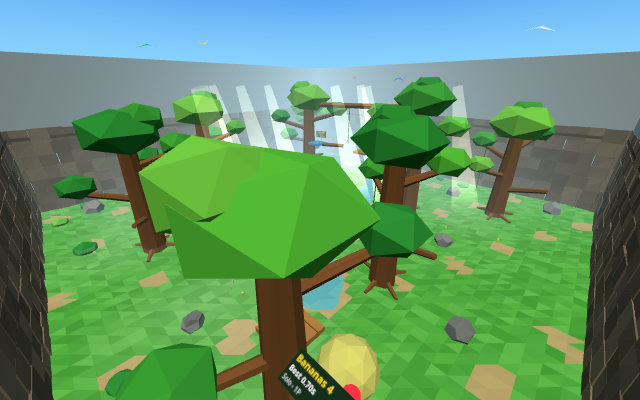
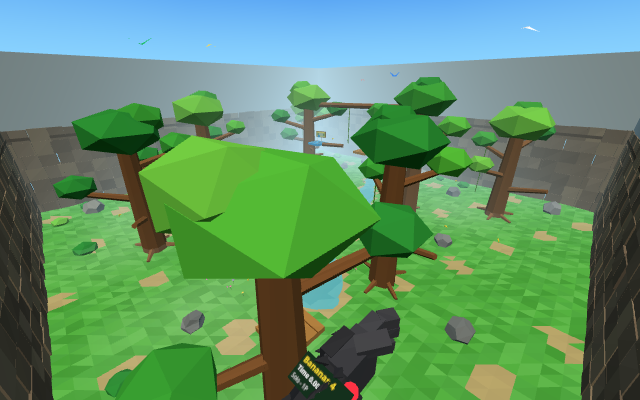
Remove sun shafts; Gorilla Tag-style gorillas (dark fur, grey face/chest plates, chest name tag) and furry 3-finger + thumb first-person hands

diff --git a/main.js b/main.js
@@ -301,7 +301,7 @@ for (const [pos, yaw] of [[new V3(-6.3, 1.7, -4.6), 0.55], [new V3(-6.6, 8.1, -7
 }
 const worldMesh = new THREE.Mesh(world.build(), worldMat); scene.add(worldMesh);
 
-// ---------- sky, sun, moon, sun shafts, mist, fireflies ----------
+// ---------- sky, sun, moon, mist, fireflies ----------
 const skyMat = new THREE.ShaderMaterial({
   side: THREE.BackSide, depthWrite: false, fog: false,
   uniforms: { top: { value: new C3() }, hor: { value: new C3() } },
@@ -311,21 +311,6 @@ const skyMat = new THREE.ShaderMaterial({
 const sky = new THREE.Mesh(new THREE.SphereGeometry(300, 16, 10), skyMat); sky.renderOrder = -1; scene.add(sky);
 const sun = new THREE.Mesh(new THREE.IcosahedronGeometry(9, 1), new THREE.MeshBasicMaterial({ color: 0xfff3b0, fog: false })); scene.add(sun);
 const moon = new THREE.Mesh(new THREE.IcosahedronGeometry(6, 1), new THREE.MeshBasicMaterial({ color: 0xe6ecff, fog: false })); scene.add(moon);
-const rayMat = new THREE.ShaderMaterial({
-  transparent: true, depthWrite: false, blending: THREE.AdditiveBlending, side: THREE.DoubleSide,
-  uniforms: { op: { value: 0.3 }, col: { value: new C3(1, 0.93, 0.7) } },
-  vertexShader: 'varying float v;void main(){v=uv.y;gl_Position=projectionMatrix*modelViewMatrix*vec4(position,1.);}',
-  fragmentShader: 'varying float v;uniform float op;uniform vec3 col;void main(){gl_FragColor=vec4(col*op*smoothstep(0.,.3,v)*(1.-v*.55),1.);}',
-});
-{
-  const pos = [], uv = [], cone = new THREE.CylinderGeometry(0.5, 1.7, 15, 10, 1, true).toNonIndexed();
-  for (const [x, z, s] of [[2, -3, 1], [-4, 5, 0.9], [4, 12.5, 1.1], [-13.5, -5, 1], [12, -11, 0.9], [-2, -13, 1.1], [9, 1, 0.8], [-17, 2, 1]]) {
-    const g = cone.clone(); g.applyMatrix4(M4(new V3(x, 7.5, z), new Q().setFromEuler(new THREE.Euler(0.12, 0, 0.22)), new V3(s, 1, s)));
-    pos.push(...g.attributes.position.array); uv.push(...g.attributes.uv.array);
-  }
-  const g = new THREE.BufferGeometry(); g.setAttribute('position', new THREE.Float32BufferAttribute(pos, 3)); g.setAttribute('uv', new THREE.Float32BufferAttribute(uv, 2));
-  scene.add(new THREE.Mesh(g, rayMat));
-}
 const mistTex = (() => { const c = document.createElement('canvas'); c.width = c.height = 64; const x = c.getContext('2d'); const gr = x.createRadialGradient(32, 32, 0, 32, 32, 32); gr.addColorStop(0, 'rgba(255,255,255,1)'); gr.addColorStop(1, 'rgba(255,255,255,0)'); x.fillStyle = gr; x.fillRect(0, 0, 64, 64); return new THREE.CanvasTexture(c); })();
 const mistMat = new THREE.MeshBasicMaterial({ map: mistTex, transparent: true, opacity: 0.22, depthWrite: false, color: 0xffffff });
 const mist = new THREE.Group(); scene.add(mist);
@@ -399,48 +384,150 @@ const BANANAS = [];
 const bananaMesh = new THREE.InstancedMesh(bananaGeo, new THREE.MeshLambertMaterial({ vertexColors: true, emissive: 0x403000, flatShading: true }), BANANAS.length);
 bananaMesh.frustumCulled = false; scene.add(bananaMesh);
 
-// ---------- gorilla avatars ----------
+// ---------- gorilla avatars (classic Gorilla Tag look: dark fur, light grey face + chest plates) ----------
+// Built with its own deterministic noise (not the seeded world rnd) so the world layout is untouched.
+// Per-vertex 'fur' flag: fur takes the player's colour (or lava), face/chest plates stay light grey.
+class GorillaBuilder {
+  constructor() { this.p = []; this.n = []; this.c = []; this.f = []; this.h = 12345; }
+  noise() { this.h = (this.h * 16807) % 2147483647; return this.h / 2147483647; }
+  add(geo, color, m, fur = 1, vary = 0.08) {
+    const g = geo.index ? geo.toNonIndexed() : geo.clone(); geo.dispose();
+    if (m) g.applyMatrix4(m);
+    g.computeVertexNormals();
+    const p = g.attributes.position.array, n = g.attributes.normal.array, base = new C3(color);
+    for (let i = 0; i < p.length; i += 9) { const k = 1 + (this.noise() - 0.5) * 2 * vary; for (let j = 0; j < 3; j++) { this.c.push(base.r * k, base.g * k, base.b * k); this.f.push(fur); } }
+    for (const v of p) this.p.push(v); for (const v of n) this.n.push(v);
+    g.dispose(); return this;
+  }
+  build() {
+    const g = new THREE.BufferGeometry();
+    g.setAttribute('position', new THREE.Float32BufferAttribute(this.p, 3));
+    g.setAttribute('normal', new THREE.Float32BufferAttribute(this.n, 3));
+    g.setAttribute('color', new THREE.Float32BufferAttribute(this.c, 3));
+    g.setAttribute('fur', new THREE.Float32BufferAttribute(this.f, 1));
+    g.computeBoundingSphere(); return g;
+  }
+}
+const EUL = (x, y, z) => new Q().setFromEuler(new THREE.Euler(x, y, z));
+const FUR = '#ffffff', FUR_DARK = '#9a9a9a', PLATE = '#b4b4b4', RING = '#858585', EYE = '#101010', MUZZLE = '#c4c4c4', HOLE = '#2a2a2a';
+// a tuft of fur: thin open 4-sided spike from 'at' along 'dir'
+function tuft(gb, at, dir, len = 0.05, r = 0.016, col = FUR) {
+  const d = dir.clone().normalize();
+  gb.add(new THREE.ConeGeometry(r, len, 4, 1, true), col, M4(at.clone().addScaledVector(d, len / 2), qFromTo(UP, d)), 1, 0.15);
+}
+function mirrorX(geo) { // right-hand copy of a left-hand model (flip x, keep triangle winding front-facing)
+  const g = geo.clone();
+  for (const name of ['position', 'normal', 'color', 'fur']) {
+    const a = g.attributes[name], s = a.itemSize, arr = a.array;
+    for (let i = 0; i < arr.length; i += 3 * s) for (let k = 0; k < s; k++) { const t = arr[i + s + k]; arr[i + s + k] = arr[i + 2 * s + k]; arr[i + 2 * s + k] = t; }
+  }
+  const p = g.attributes.position.array, n = g.attributes.normal.array;
+  for (let i = 0; i < p.length; i += 3) { p[i] = -p[i]; n[i] = -n[i]; }
+  g.computeBoundingSphere(); return g;
+}
+// Hand in WebXR grip space (left hand): palm faces +x, fingers wrap forward (-z), thumb on top, forearm back (+z).
+function buildHand() {
+  const gb = new GorillaBuilder(); gb.h = 777; const SKIN = new C3(2.1, 2.1, 2.1), SKIN2 = new C3(1.7, 1.7, 1.7); // palm/fingers a shade lighter than the fur
+  gb.add(new THREE.BoxGeometry(0.06, 0.11, 0.105), SKIN2, M4(new V3(0.002, 0, -0.01)), 1, 0.06);           // palm
+  gb.add(new THREE.BoxGeometry(0.03, 0.115, 0.075), FUR, M4(new V3(-0.028, 0, 0.0)), 1, 0.06);              // back of hand
+  for (const [y, len] of [[0.037, 0.06], [0, 0.068], [-0.037, 0.056]]) {                                  // 3 chunky fingers
+    gb.add(new THREE.BoxGeometry(0.038, 0.032, len), SKIN, M4(new V3(-0.006, y, -0.06 - len / 2)), 1, 0.08);
+    gb.add(new THREE.BoxGeometry(0.034, 0.03, 0.045), SKIN2, M4(new V3(0.008, y, -0.075 - len), EUL(0, -0.55, 0)), 1, 0.08);
+  }
+  gb.add(new THREE.BoxGeometry(0.034, 0.034, 0.07), SKIN, M4(new V3(0.03, 0.062, -0.04), EUL(0.3, -0.7, 0)), 1, 0.06); // thumb
+  const fa = new V3(0, -0.22, 1).normalize();
+  gb.add(new THREE.CylinderGeometry(0.05, 0.06, 0.17, 7, 1, true), FUR, M4(fa.clone().multiplyScalar(0.11), qFromTo(UP, fa)), 1, 0.1); // forearm
+  for (let i = 0; i < 16; i++) {                                                                         // short fur tufts, swept back along the forearm
+    const t = 0.05 + 0.15 * gb.noise(), ang = Math.PI * (0.45 + 1.1 * gb.noise());
+    const radial = new V3(Math.cos(ang), Math.sin(ang) * 0.9 - 0.15, 0).normalize();
+    const at = fa.clone().multiplyScalar(t).addScaledVector(radial, 0.048);
+    tuft(gb, at, radial.clone().multiplyScalar(0.55).addScaledVector(fa, 1), 0.03 + 0.015 * gb.noise(), 0.011);
+  }
+  for (const [y, z] of [[0.035, 0.02], [-0.03, 0.025], [0.0, -0.02], [0.04, -0.03], [-0.04, -0.025]]) tuft(gb, new V3(-0.042, y, z), new V3(-0.6, 0.15, 1), 0.026, 0.01);
+  for (let i = 0; i < 7; i++) { const ang = i / 7 * Math.PI * 2 + 0.3, r = new V3(Math.cos(ang) * 0.75, Math.sin(ang), 0); tuft(gb, new V3(0, 0, 0.045).addScaledVector(r, 0.055), r.clone().multiplyScalar(0.8).add(new V3(0, 0, 0.9)), 0.032, 0.012); } // shaggy wrist cuff
+  for (const z of [-0.035, 0.0, 0.03]) tuft(gb, new V3(-0.01, -0.058, z), new V3(-0.2, -1, 0.8), 0.028, 0.011); // hair along the outer edge
+  return gb.build();
+}
 const gorillaGeo = (() => {
-  const body = new Merger(); body.add(new THREE.DodecahedronGeometry(0.36, 0), '#ffffff', M4(null, null, new V3(1.05, 1.15, 0.85)), 0.05);
-  body.add(new THREE.DodecahedronGeometry(0.2, 0), '#b8a998', M4(new V3(0, -0.02, -0.24), null, new V3(1, 1.2, 0.5)), 0.03);
-  const head = new Merger(); head.add(new THREE.BoxGeometry(0.3, 0.27, 0.3), '#ffffff', null, 0.06);
-  head.add(new THREE.BoxGeometry(0.23, 0.17, 0.06), '#5a5048', M4(new V3(0, -0.02, -0.15)), 0.02);
-  for (const sx of [-1, 1]) { head.add(new THREE.BoxGeometry(0.05, 0.05, 0.02), '#ffffff', M4(new V3(0.055 * sx, 0.02, -0.185)), 0); head.add(new THREE.BoxGeometry(0.025, 0.025, 0.02), '#111111', M4(new V3(0.055 * sx, 0.02, -0.195)), 0); }
-  head.add(new THREE.BoxGeometry(0.34, 0.06, 0.2), '#ffffff', M4(new V3(0, 0.12, 0.02)), 0.05);
-  const hand = new Merger(); hand.add(new THREE.IcosahedronGeometry(HR, 1), '#ffffff', null, 0.05);
-  return { body: body.build(), head: head.build(), hand: hand.build(), arm: (() => { const g = new THREE.CylinderGeometry(0.05, 0.06, 1, 6).translate(0, 0.5, 0).rotateX(Math.PI / 2); g.setAttribute('color', new THREE.Float32BufferAttribute(new Array(g.attributes.position.count * 3).fill(1), 3)); return g; })() }; // arms need a (white) colour attribute or vertexColors renders them black
+  // torso: short and bulky, no legs; light grey chest plate
+  const body = new GorillaBuilder(); body.h = 31;
+  body.add(new THREE.DodecahedronGeometry(0.36, 0), FUR, M4(null, null, new V3(1.15, 1.0, 0.9)), 1, 0.06);
+  for (const sx of [-1, 1]) body.add(new THREE.DodecahedronGeometry(0.16, 0), FUR, M4(new V3(0.29 * sx, 0.17, 0.02)), 1, 0.06);
+  body.add(new THREE.IcosahedronGeometry(0.25, 1), PLATE, M4(new V3(0, 0.02, -0.255), null, new V3(1.0, 1.05, 0.38)), 0, 0.03);
+  for (let i = 0; i < 9; i++) { const a = -0.9 + 1.8 * i / 8; tuft(body, new V3(Math.sin(a) * 0.3, 0.26 - Math.abs(a) * 0.08, 0.1 + Math.cos(a) * 0.12), new V3(Math.sin(a), 0.6, 0.8), 0.06, 0.022); }
+  // head: big rounded fur dome, darker brow, light grey face plate, round eye rings, big dark eyes, muzzle with nostrils, small mouth
+  const head = new GorillaBuilder(); head.h = 57;
+  head.add(new THREE.IcosahedronGeometry(0.175, 1), FUR, M4(new V3(0, 0.025, 0.02), null, new V3(1.05, 0.98, 1.0)), 1, 0.07);
+  head.add(new THREE.DodecahedronGeometry(0.09, 0), FUR, M4(new V3(0, 0.11, 0.0), null, new V3(1.5, 0.8, 1.4)), 1, 0.07); // crown
+  head.add(new THREE.BoxGeometry(0.29, 0.05, 0.08), FUR_DARK, M4(new V3(0, 0.085, -0.125), EUL(0.2, 0, 0)), 1, 0.05);      // brow ridge
+  head.add(new THREE.IcosahedronGeometry(0.12, 1), PLATE, M4(new V3(0, -0.02, -0.115), null, new V3(1.3, 1.08, 0.52)), 0, 0.03); // face plate
+  for (const sx of [-1, 1]) {
+    head.add(new THREE.CylinderGeometry(0.047, 0.047, 0.02, 10), RING, M4(new V3(0.055 * sx, 0.02, -0.165), EUL(Math.PI / 2, 0, 0)), 0, 0.02);
+    head.add(new THREE.CylinderGeometry(0.031, 0.031, 0.02, 10), EYE, M4(new V3(0.055 * sx, 0.02, -0.174), EUL(Math.PI / 2, 0, 0)), 0, 0);
+    head.add(new THREE.BoxGeometry(0.012, 0.012, 0.01), '#ffffff', M4(new V3(0.055 * sx + 0.01, 0.032, -0.185)), 0, 0); // eye glint
+  }
+  head.add(new THREE.IcosahedronGeometry(0.068, 1), MUZZLE, M4(new V3(0, -0.07, -0.165), null, new V3(1.3, 0.82, 0.75)), 0, 0.03); // muzzle
+  for (const sx of [-1, 1]) head.add(new THREE.BoxGeometry(0.016, 0.012, 0.012), HOLE, M4(new V3(0.018 * sx, -0.052, -0.215)), 0, 0); // nostrils
+  head.add(new THREE.BoxGeometry(0.05, 0.008, 0.012), HOLE, M4(new V3(0, -0.098, -0.205)), 0, 0); // mouth
+  // arms: long and chunky, with tufts (unit length along +z, scaled to reach the hand)
+  const arm = new GorillaBuilder(); arm.h = 99;
+  arm.add(new THREE.CylinderGeometry(0.068, 0.09, 1, 7, 1, true).translate(0, 0.5, 0).rotateX(Math.PI / 2), FUR, null, 1, 0.08);
+  for (let i = 0; i < 10; i++) { const a = i * 2.4, z = 0.12 + 0.07 * i, r = new V3(Math.cos(a), Math.sin(a), 0); tuft(arm, r.clone().multiplyScalar(0.07).setZ(z), r.clone().multiplyScalar(0.6).setZ(1), 0.045, 0.016); }
+  const handL = buildHand().scale(1.2, 1.2, 1.2); // big gorilla hands
+  return { body: body.build(), head: head.build().scale(1.22, 1.22, 1.22), arm: arm.build(), hand: handL, handL, handR: mirrorX(handL) };
 })();
+function gorillaMat(color) {
+  const m = new THREE.MeshLambertMaterial({ vertexColors: true, flatShading: true, color });
+  m.onBeforeCompile = s => {
+    s.vertexShader = s.vertexShader.replace('#include <common>', '#include <common>\nattribute float fur;\nvarying float vFur;').replace('#include <begin_vertex>', '#include <begin_vertex>\nvFur = fur;');
+    s.fragmentShader = s.fragmentShader.replace('#include <common>', '#include <common>\nvarying float vFur;').replace('#include <color_fragment>', 'diffuseColor.rgb = vColor.rgb * mix(vec3(1.0), diffuse, vFur);');
+  };
+  m.customProgramCacheKey = () => 'gorilla-fur';
+  return m;
+}
 const LAVA = new C3(0xff4a12);
+// name tag: white pixel-style text on the chest (crisp nearest-filtered low-res canvas, hard alpha)
 function nameSprite(text) {
-  const c = document.createElement('canvas'); c.width = 256; c.height = 64; const tex = new THREE.CanvasTexture(c); tex.colorSpace = THREE.SRGBColorSpace;
-  const s = new THREE.Sprite(new THREE.SpriteMaterial({ map: tex, transparent: true, depthWrite: false })); s.scale.set(0.8, 0.2, 1);
-  s.userData.set = (t, it) => { const x = c.getContext('2d'); x.clearRect(0, 0, 256, 64); x.fillStyle = it ? 'rgba(160,30,0,.75)' : 'rgba(0,0,0,.55)'; x.beginPath(); if (x.roundRect) x.roundRect(4, 6, 248, 52, 20); else x.rect(4, 6, 248, 52); x.fill(); x.fillStyle = '#fff'; x.font = 'bold 34px system-ui,sans-serif'; x.textAlign = 'center'; x.textBaseline = 'middle'; x.fillText(t, 128, 33); tex.needsUpdate = true; s.userData.text = t; };
+  const W = 128, H = 20, c = document.createElement('canvas'); c.width = W; c.height = H; const tex = new THREE.CanvasTexture(c); tex.colorSpace = THREE.SRGBColorSpace;
+  tex.magFilter = THREE.NearestFilter; tex.minFilter = THREE.NearestFilter; tex.generateMipmaps = false;
+  const s = new THREE.Mesh(new THREE.PlaneGeometry(0.34, 0.053), new THREE.MeshBasicMaterial({ map: tex, transparent: true, alphaTest: 0.5, depthWrite: false }));
+  s.userData.set = (t, it) => {
+    const x = c.getContext('2d'); x.clearRect(0, 0, W, H);
+    x.fillStyle = '#fff'; x.font = 'bold 15px monospace'; x.textAlign = 'center'; x.textBaseline = 'middle';
+    const str = String(t).toUpperCase(); const w = x.measureText(str).width; x.save(); if (w > W - 4) { x.translate(W / 2, 0); x.scale((W - 4) / w, 1); x.translate(-W / 2, 0); } x.fillText(str, W / 2, H / 2 + 1); x.restore();
+    const im = x.getImageData(0, 0, W, H), d = im.data; for (let i = 3; i < d.length; i += 4) { const on = d[i] > 110; d[i] = on ? 255 : 0; d[i - 1] = d[i - 2] = d[i - 3] = 255; } x.putImageData(im, 0, 0);
+    tex.needsUpdate = true; s.userData.text = t; s.userData.it = !!it;
+  };
   s.userData.set(text); return s;
 }
+const _qFlipY = new Q().setFromAxisAngle(UP, Math.PI);
 function makeGorilla(color, name) {
-  const mat = new THREE.MeshLambertMaterial({ vertexColors: true, flatShading: true, color });
+  const mat = gorillaMat(color);
   const g = { mat, color: new C3(color), group: new THREE.Group(), it: false };
   g.body = new THREE.Mesh(gorillaGeo.body, mat); g.head = new THREE.Mesh(gorillaGeo.head, mat);
-  g.hands = [new THREE.Mesh(gorillaGeo.hand, mat), new THREE.Mesh(gorillaGeo.hand, mat)];
+  g.hands = [new THREE.Mesh(gorillaGeo.handL, mat), new THREE.Mesh(gorillaGeo.handR, mat)];
   g.arms = [new THREE.Mesh(gorillaGeo.arm, mat), new THREE.Mesh(gorillaGeo.arm, mat)];
   g.tag = nameSprite(name);
-  g.group.add(g.body, g.head, ...g.hands, ...g.arms, g.tag); scene.add(g.group);
+  g.tag.position.set(0, 0.15, -0.352); g.tag.rotation.set(0, Math.PI, 0); // on the upper chest, facing forward (-z)
+  g.body.add(g.tag);
+  g.group.add(g.body, g.head, ...g.hands, ...g.arms); scene.add(g.group);
   g.setColor = c => { g.color.set(c); g.apply(g.it); };
   g.apply = it => { g.it = it; mat.color.copy(it ? LAVA : g.color); mat.emissive.set(it ? 0xff2200 : 0x000000); mat.emissiveIntensity = it ? 0.55 : 0; g.tag.userData.set(g.tag.userData.text, it); };
   const yq = new Q(), sh = new V3(), e = new THREE.Euler(), d = new V3(), ye = new THREE.Euler(), off = new V3();
-  g.pose = (head, hq, hl, hr) => {
+  g.pose = (head, hq, hl, hr, ql, qr) => {
     e.setFromQuaternion(hq, 'YXZ'); yq.setFromEuler(ye.set(0, e.y, 0));
     g.head.position.copy(head); g.head.quaternion.copy(hq);
     g.body.position.copy(head); g.body.position.y -= BODY_OFF - 0.05; g.body.quaternion.copy(yq);
     [hl, hr].forEach((h, i) => {
       g.hands[i].position.copy(h);
-      sh.copy(off.set(i ? 0.27 : -0.27, -0.3, 0).applyQuaternion(yq)).add(head);
+      sh.copy(off.set(i ? 0.29 : -0.29, -0.3, 0).applyQuaternion(yq)).add(head);
       const len = Math.max(0.05, d.subVectors(h, sh).length());
       g.arms[i].position.copy(sh); g.arms[i].scale.set(1, 1, len); g.arms[i].lookAt(h);
+      const q = i ? qr : ql;
+      if (q) g.hands[i].quaternion.copy(q); else g.hands[i].quaternion.copy(g.arms[i].quaternion).multiply(_qFlipY); // no hand rotation sent: fingers point along the arm
     });
-    g.tag.position.copy(head); g.tag.position.y += 0.42;
   };
-  g.dispose = () => { scene.remove(g.group); mat.dispose(); g.tag.material.map.dispose(); g.tag.material.dispose(); };
+  g.dispose = () => { scene.remove(g.group); mat.dispose(); g.tag.material.map.dispose(); g.tag.material.dispose(); g.tag.geometry.dispose(); };
   return g;
 }
 
@@ -448,12 +535,12 @@ function makeGorilla(color, name) {
 const LS = (k, v) => { try { if (v === undefined) return localStorage.getItem(k); localStorage.setItem(k, v); } catch (e) { return null; } };
 const ME = {
   name: LS('mm_name') || ('Monkey' + (100 + Math.floor(Math.random() * 900))),
-  color: '#' + new C3().setHSL(Math.random(), 0.75, 0.55).getHexString(),
+  color: '#34343a', // classic near-black gorilla fur (face and chest plates stay light grey)
   bananas: 0,
 };
-const handMat = new THREE.MeshLambertMaterial({ vertexColors: true, flatShading: true, color: ME.color });
-const myHands = [new THREE.Mesh(gorillaGeo.hand, handMat), new THREE.Mesh(gorillaGeo.hand, handMat)];
-myHands.forEach(h => { h.scale.setScalar(1.15); scene.add(h); });
+const handMat = gorillaMat(ME.color); // first-person hands: palm, 3 fingers + thumb, furry forearm
+const myHands = [new THREE.Mesh(gorillaGeo.handL, handMat), new THREE.Mesh(gorillaGeo.handR, handMat)];
+myHands.forEach(h => scene.add(h));
 const wristCv = document.createElement('canvas'); wristCv.width = 256; wristCv.height = 128;
 const wristTex = new THREE.CanvasTexture(wristCv); wristTex.colorSpace = THREE.SRGBColorSpace;
 const wrist = new THREE.Mesh(new THREE.PlaneGeometry(0.14, 0.07), new THREE.MeshBasicMaterial({ map: wristTex, fog: false }));
@@ -514,7 +601,7 @@ function readDesk(dt) {
 function readFake() {
   const f = MM.fake, inp = emptyInput();
   inp.head.fromArray(f.head || [0, 1.6, 0]); if (f.headQ) inp.headQ.fromArray(f.headQ);
-  for (let i = 0; i < 2; i++) { const h = f.hands && f.hands[i]; if (h) { inp.hands[i].p.fromArray(h.p); inp.hands[i].grip = !!h.grip; } }
+  for (let i = 0; i < 2; i++) { const h = f.hands && f.hands[i]; if (h) { inp.hands[i].p.fromArray(h.p); inp.hands[i].grip = !!h.grip; if (h.q) inp.hands[i].q.fromArray(h.q); } }
   return inp;
 }
 
@@ -802,7 +889,6 @@ function updateSky(camPos) {
   sunLight.position.copy(_sd).multiplyScalar(s > 0 ? 30 : -30);
   sunLight.color.set(0xb8c8ff).lerp(new C3(0xfff0d0), day).lerp(C_DUSK, dusk * 0.5); sunLight.intensity = 0.35 + 1.75 * day;
   hemi.intensity = 0.3 + 0.75 * day; hemi.color.set(0x6a7ab8).lerp(new C3(0xcfeeff), day);
-  rayMat.uniforms.op.value = 0.03 + 0.15 * day; rayMat.uniforms.col.value.set(0x8aa6ff).lerp(new C3(1, 0.93, 0.7), day);
   ffMat.uniforms.op.value = clamp(1 - day * 1.3, 0, 1); fireflies.visible = day < 0.8;
   mistMat.color.set(0x6f80b0).lerp(new C3(0xffffff), day); mistMat.opacity = 0.16 + 0.08 * (1 - day);
   fallMat.uniforms.light.value = 0.35 + 0.65 * day; water.material.emissive.set(0x0a3a50).multiplyScalar(0.3 + 0.7 * day);
@@ -890,7 +976,7 @@ const MM = window.MM = {
   THREE, scene, renderer, rig, camera, PH, VINES, BANANAS, TREES, COURSE, COURSE_S, NET, VOICE, ME, DAY, ROCKS, CAVES, PLATFORMS, colliders, nearest, terrainH, GAME,
   paused: false, fake: null, timeOverride: null, stats: { tagsSent: 0, vineGrabs: 0, slips: 0, posesSent: 0 }, CLIMB_H, HALF, WALL_H, HR, BODY_OFF, BODY_R,
   frameMs, updateMs: [], RELAYS, APPID, NETLOG, birdPos: () => [...birdMesh.geometry.attributes.position.array.slice(0, 3)], butterPos: () => [...butterMesh.geometry.attributes.position.array.slice(0, 3)],
-  sunVisible: () => sun.visible, moonVisible: () => moon.visible, firefliesOp: () => ffMat.uniforms.op.value, raysOp: () => rayMat.uniforms.op.value, sunI: () => sunLight.intensity, fogColor: () => scene.fog.color.getHexString(),
+  sunVisible: () => sun.visible, moonVisible: () => moon.visible, firefliesOp: () => ffMat.uniforms.op.value, sunI: () => sunLight.intensity, fogColor: () => scene.fog.color.getHexString(),
 };
 const handsW = [new V3(), new V3()];
 const _hw = new V3(), _bw = new V3();
@@ -961,6 +1047,7 @@ MM.place = (x, y, z) => { const inp = MM.fake ? readFake() : emptyInput(); rig.p
 MM.headW = () => (lastInp ? lastInp.head.clone() : new V3(0, 1.6, 0)).add(rig.position);
 MM.handsW = () => handsW.map(h => h.toArray());
 MM.muteBtnW = () => { myHands[0].updateMatrixWorld(true); return muteBtn.getWorldPosition(new V3()).toArray(); };
+MM.myHands = myHands;
 MM.setMute = setMute; MM.joinNet = joinNet; MM.startAudio = startAudio; MM.AU = AU; MM.startVoice = startVoice;
 MM.renderInfo = () => ({ calls: renderer.info.render.calls, triangles: renderer.info.render.triangles, geometries: renderer.info.memory.geometries });
 MM.remoteList = () => [...NET.remotes.values()].map(r => ({ id: r.id, name: r.name, tag: r.avatar.tag.userData.text, color: r.color, visible: r.avatar.group.visible, head: r.headPos.toArray(), it: NET.infected.has(r.id), voice: !!r.voice, pannerPos: r.voice ? [r.voice.pn.positionX.value, r.voice.pn.positionY.value, r.voice.pn.positionZ.value] : null }));
@@ -1038,7 +1125,7 @@ const MIRROR = { c: new V3(-5.2, 0, 0.6), w: 2.2, h: 2.4, bottom: 0.25 };
   mirror.camera.layers.enable(MIRROR_LAYER); scene.add(mirror);
   MIRROR.mesh = mirror; MIRROR.normal = new V3(1, 0, 0);
   MIRROR.avatar = makeGorilla(ME.color, ME.name);
-  MIRROR.avatar.group.traverse(o => o.layers.set(MIRROR_LAYER)); MIRROR.avatar.tag.visible = false; MIRROR.avatar.group.visible = false;
+  MIRROR.avatar.group.traverse(o => o.layers.set(MIRROR_LAYER)); MIRROR.avatar.group.visible = false; // chest name tag reads reversed, like a real mirror
 }
 const _mp = new V3(), _mq = new Q();
 function updateMirror() {
@@ -1052,6 +1139,7 @@ function updateMirror() {
   camera.getWorldQuaternion(_mq);
   if (av.color.getHexString() !== new C3(ME.color).getHexString()) av.setColor(ME.color);
   const it = NET.infected.has(NET.selfId); if (it !== av.it) av.apply(it);
-  av.pose(_mp, _mq, handsW[0], handsW[1]);
+  if (av.tag.userData.text !== ME.name) av.tag.userData.set(ME.name, av.it);
+  av.pose(_mp, _mq, handsW[0], handsW[1], myHands[0].quaternion, myHands[1].quaternion);
 }
 MM.MIRROR = MIRROR; MM.MIRROR_LAYER = MIRROR_LAYER;

diff --git a/test/t.js b/test/t.js
@@ -152,15 +152,17 @@ const LOCAL_TRANSPORT = () => {
   ok(course.gaps.every(g => g < 1.6), 'course hops are all within reach/swing: ' + course.gaps.map(g => g.toFixed(2)).join(', ') + ' m');
   ok(/idle/.test(course.fell), 'falling to the ground cancels the run: ' + course.fell);
   const daynight = await A.p.evaluate(() => {
-    const r = {}; MM.timeOverride = 0.25; MM.render(); r.noon = { sun: MM.sunVisible(), moon: MM.moonVisible(), ff: MM.firefliesOp(), rays: MM.raysOp(), sunI: MM.sunI(), fog: MM.fogColor() };
-    MM.timeOverride = 0.75; MM.render(); r.night = { sun: MM.sunVisible(), moon: MM.moonVisible(), ff: MM.firefliesOp(), rays: MM.raysOp(), sunI: MM.sunI(), fog: MM.fogColor() };
+    const r = {}; MM.timeOverride = 0.25; MM.render(); r.noon = { sun: MM.sunVisible(), moon: MM.moonVisible(), ff: MM.firefliesOp(), sunI: MM.sunI(), fog: MM.fogColor() };
+    MM.timeOverride = 0.75; MM.render(); r.night = { sun: MM.sunVisible(), moon: MM.moonVisible(), ff: MM.firefliesOp(), sunI: MM.sunI(), fog: MM.fogColor() };
     MM.timeOverride = 0.5; MM.render(); r.dusk = MM.fogColor();
+    r.additiveMeshes = []; MM.scene.traverse(o => { if (o.isMesh && o.material && o.material.blending === MM.THREE.AdditiveBlending) r.additiveMeshes.push(o.geometry.type); }); r.raysApi = typeof MM.raysOp;
     MM.timeOverride = null; MM.render(); r.phase = MM.DAY.phase; r.expected = ((Date.now() / 1000) % 600) / 600;
     const b0 = MM.birdPos(), u0 = MM.butterPos(); const t0 = performance.now(); while (performance.now() - t0 < 300) { } MM.render(); r.birdMoved = Math.hypot(...MM.birdPos().map((v, i) => v - b0[i])); r.butterMoved = Math.hypot(...MM.butterPos().map((v, i) => v - u0[i])); r.birdY = b0[1];
     return r;
   });
   ok(daynight.noon.sun && !daynight.noon.moon && daynight.noon.ff === 0 && daynight.night.moon && !daynight.night.sun && daynight.night.ff > 0.9, 'day/night: sun by day; moon + glowing fireflies at night');
-  ok(daynight.night.rays < daynight.noon.rays / 2.5 && daynight.night.sunI < daynight.noon.sunI / 3 && daynight.noon.fog !== daynight.night.fog && daynight.dusk !== daynight.noon.fog, `sky, fog and light change; sun shafts dim at night (rays ${daynight.noon.rays.toFixed(2)}→${daynight.night.rays.toFixed(2)}, fog #${daynight.noon.fog}→#${daynight.night.fog}, dusk #${daynight.dusk})`);
+  ok(daynight.additiveMeshes.length === 0 && daynight.raysApi === 'undefined', `sun shafts / god rays removed (additive meshes in scene: ${daynight.additiveMeshes.length})`);
+  ok(daynight.night.sunI < daynight.noon.sunI / 3 && daynight.noon.fog !== daynight.night.fog && daynight.dusk !== daynight.noon.fog, `sky, fog and light change (sun ${daynight.noon.sunI.toFixed(2)}→${daynight.night.sunI.toFixed(2)}, fog #${daynight.noon.fog}→#${daynight.night.fog}, dusk #${daynight.dusk})`);
   ok(Math.abs(daynight.phase - daynight.expected) < 0.003, `time of day comes from the shared clock (10 min cycle), phase ${daynight.phase.toFixed(4)}`);
   ok(daynight.birdMoved > 0.1 && daynight.butterMoved > 0.02 && daynight.birdY > 14, `birds fly overhead (y≈${daynight.birdY.toFixed(1)} m) and butterflies flutter (moved ${daynight.birdMoved.toFixed(2)} / ${daynight.butterMoved.toFixed(2)} m)`);
   // audio graph: ambience sources exist and are positional
@@ -208,6 +210,21 @@ const LOCAL_TRANSPORT = () => {
   ok(!mir.far.visible && mir.far.px === 0 && !mir.behindVisible, 'reflection pass skipped when far (>14 m) or behind the mirror');
   ok(!mir.glassClimb && mir.frameClimb, 'mirror glass is not climbable (frame logs are)');
   console.log(`INFO mirror perf: near ${mir.near.perf.calls} draw calls / ${mir.near.perf.tris} tris / ${mir.near.perf.ms.toFixed(1)} ms (SwiftShader) vs far ${mir.far.perf.calls} calls / ${mir.far.perf.tris} tris / ${mir.far.perf.ms.toFixed(1)} ms`);
+  // gorilla look (Gorilla Tag style): dark fur in the player's colour, light grey face/chest plates, 3 fingers + thumb, furry forearms
+  const gor = await A.p.evaluate(() => {
+    const av = MM.MIRROR.avatar, tri = m => m.geometry.attributes.position.count / 3, r = {};
+    r.tris = tri(av.body) + tri(av.head) + 2 * tri(av.arms[0]) + 2 * tri(av.hands[0]); r.handTris = tri(MM.myHands[0]);
+    const fur = m => { const f = m.geometry.attributes.fur.array; let a = 0; for (const v of f) a += v; return [a, f.length]; };
+    r.headFur = fur(av.head); r.bodyFur = fur(av.body); r.handFurAll = fur(MM.myHands[0])[0] === fur(MM.myHands[0])[1];
+    r.defaultColor = MM.ME.color; r.tagOnChest = av.tag.parent === av.body && av.tag.position.z < -0.3; r.tagFilter = av.tag.material.map.magFilter === MM.THREE.NearestFilter;
+    r.handsDiffer = MM.myHands[0].geometry !== MM.myHands[1].geometry; const bb = new MM.THREE.Box3().setFromBufferAttribute(MM.myHands[0].geometry.attributes.position); r.handLen = bb.max.z - bb.min.z;
+    return r;
+  });
+  ok(gor.headFur[0] > 0 && gor.headFur[0] < gor.headFur[1] && gor.bodyFur[0] < gor.bodyFur[1] && gor.handFurAll, `gorilla has player-coloured fur plus fixed light grey face and chest plates (head ${gor.headFur[1] - gor.headFur[0]}/${gor.headFur[1]} plate verts)`);
+  ok(/^#[0-3][0-9a-f][0-3][0-9a-f][0-3][0-9a-f]$/i.test(gor.defaultColor), `default fur colour is near-black (${gor.defaultColor})`);
+  ok(gor.tagOnChest && gor.tagFilter, 'name tag is pixel-style text on the gorilla\'s chest');
+  ok(gor.handsDiffer && gor.handLen > 0.3, `first-person hands: left/right models with fingers, thumb and furry forearm (${gor.handLen.toFixed(2)} m long, ${gor.handTris} tris)`);
+  ok(gor.tris < 3000, `whole gorilla stays Quest-friendly (${gor.tris} triangles)`);
   // screenshots (HUD hidden)
   await A.p.evaluate(() => { document.getElementById('hud').style.display = 'none'; document.getElementById('hint').style.display = 'none'; });
   const shot = async (name, pos, yaw, pitch, t) => { await A.p.evaluate(([pos, yaw, pitch, t]) => { MM.timeOverride = t; MM.PH.freeze = true; MM.fake = { head: [0, 1.6, 0], headQ: new MM.THREE.Quaternion().setFromEuler(new MM.THREE.Euler(pitch, yaw, 0, 'YXZ')).toArray(), hands: [{ p: [-0.25, 0.95, -0.35] }, { p: [0.25, 0.95, -0.35] }] }; MM.place(...pos); MM.step(1 / 72); MM.render(); }, [pos, yaw, pitch, t]); await A.p.screenshot({ path: SHOTS + name }); };
@@ -217,6 +234,12 @@ const LOCAL_TRANSPORT = () => {
   await shot('jungle_overview.png', [21, 15, 21], 0.78, -0.42, 0.2);
   await A.p.evaluate(() => { MM.PH.freeze = false; });
   await shot('mirror.png', [MM_MIRROR_X + 2.3, 0.95, 1.3], Math.PI / 2 - 0.3, 0.03, 0.25);
+  // close-up of the gorilla in the mirror, waving
+  await A.p.evaluate(X => { const T3 = MM.THREE, q = (x, y, z) => new T3.Quaternion().setFromEuler(new T3.Euler(x, y, z, 'YXZ')).toArray(); MM.timeOverride = 0.25; MM.PH.freeze = true; MM.fake = { head: [0, 1.6, 0], headQ: q(-0.12, Math.PI / 2 - 0.08, 0), hands: [{ p: [-0.3, 1.1, 0.38], q: q(0.2, Math.PI / 2 + 0.3, -0.4) }, { p: [-0.12, 1.95, -0.5], q: q(1.3, Math.PI / 2 - 0.2, 0.6) }] }; MM.place(X + 0.9, MM.terrainH(X + 0.9, 0.6) + 0.95, 0.7); MM.step(1 / 72); MM.render(); }, MM_MIRROR_X);
+  await A.p.screenshot({ path: SHOTS + 'gorilla_style.png' });
+  // first-person view of your own hands (3 fingers + thumb, furry forearms)
+  await A.p.evaluate(() => { const T3 = MM.THREE, q = (x, y, z) => new T3.Quaternion().setFromEuler(new T3.Euler(x, y, z, 'YXZ')).toArray(); MM.timeOverride = 0.25; MM.PH.freeze = true; MM.fake = { head: [0, 1.6, 0], headQ: q(-0.32, 0, 0), hands: [{ p: [-0.21, 1.36, -0.46], q: new T3.Quaternion().setFromEuler(new T3.Euler(-0.35, 0.35, 0, 'YXZ')).multiply(new T3.Quaternion().setFromAxisAngle(new T3.Vector3(0, 0, 1), Math.PI / 2)).multiply(new T3.Quaternion().setFromAxisAngle(new T3.Vector3(0, 1, 0), -Math.PI / 2)).toArray() }, { p: [0.21, 1.36, -0.46], q: new T3.Quaternion().setFromEuler(new T3.Euler(-0.35, -0.35, 0, 'YXZ')).multiply(new T3.Quaternion().setFromAxisAngle(new T3.Vector3(0, 0, 1), -Math.PI / 2)).multiply(new T3.Quaternion().setFromAxisAngle(new T3.Vector3(0, 1, 0), Math.PI / 2)).toArray() }] }; MM.place(1.5, 0.95, 3); MM.step(1 / 72); MM.render(); });
+  await A.p.screenshot({ path: SHOTS + 'hands_fp.png' });
   await shot('night_fireflies.png', [2, 1.3, 6], -0.6, 0.05, 0.78);
   await shot('sunset.png', [-10, 4.5, 12], -2.4, 0.0, 0.485);
   await A.ctx.close();
@@ -235,7 +258,7 @@ const LOCAL_TRANSPORT = () => {
     const r1 = await P1.p.evaluate(() => MM.remoteList()[0]), me2 = await P2.p.evaluate(() => MM.headW().toArray());
     const err = Math.hypot(r1.head[0] - me2[0], r1.head[1] - me2[1], r1.head[2] - me2[2]);
     ok(err < 0.25, `remote head pose synced at 15 Hz and interpolated (err ${err.toFixed(3)} m)`);
-    ok(r1.name === 'Bongo' && r1.tag === 'Bongo', 'floating name tag above the remote gorilla shows the name set on the landing page');
+    ok(r1.name === 'Bongo' && r1.tag === 'Bongo', 'chest name tag on the remote gorilla shows the name set on the landing page');
     const [rate, fps] = await P1.p.evaluate(async () => { let f = 0, run = true; const tick = () => { f++; if (run) requestAnimationFrame(tick); }; requestAnimationFrame(tick); const a = MM.stats.posesSent; await new Promise(r => setTimeout(r, 2000)); run = false; return [(MM.stats.posesSent - a) / 2, f / 2]; });
     ok(rate >= Math.min(13, fps * 0.85) && rate <= 20, `pose send rate ${rate.toFixed(1)} Hz (target 15 Hz; headless page ran at ${fps.toFixed(0)} fps)`);
     await P1.p.waitForFunction(() => MM.NET.round >= 1 && MM.NET.infected.size === 1, null, { timeout: 15000 }).catch(() => { });
